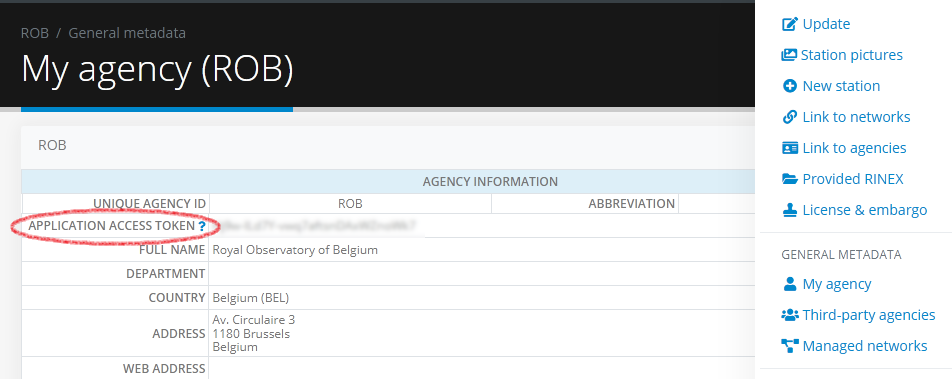
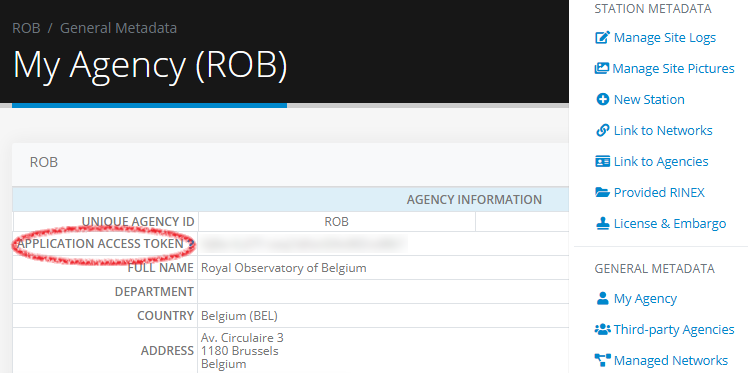
Upper case menu items & image

diff --git a/docs/authorization.md b/docs/authorization.md
@@ -1,5 +1,5 @@
 # M<sup>3</sup>G access token
 
-For some operations, you need to be authorized i.e. you need the "*Application access token*": you can find it in "*My agency*" once logged in in M<sup>3</sup>G, see the figure below:
+For some operations, you need to be authorized i.e. you need the "*Application access token*": you can find it in "*My Agency*" once logged in in M<sup>3</sup>G, see the figure below:
 
 ![figure](images/key1.png)
